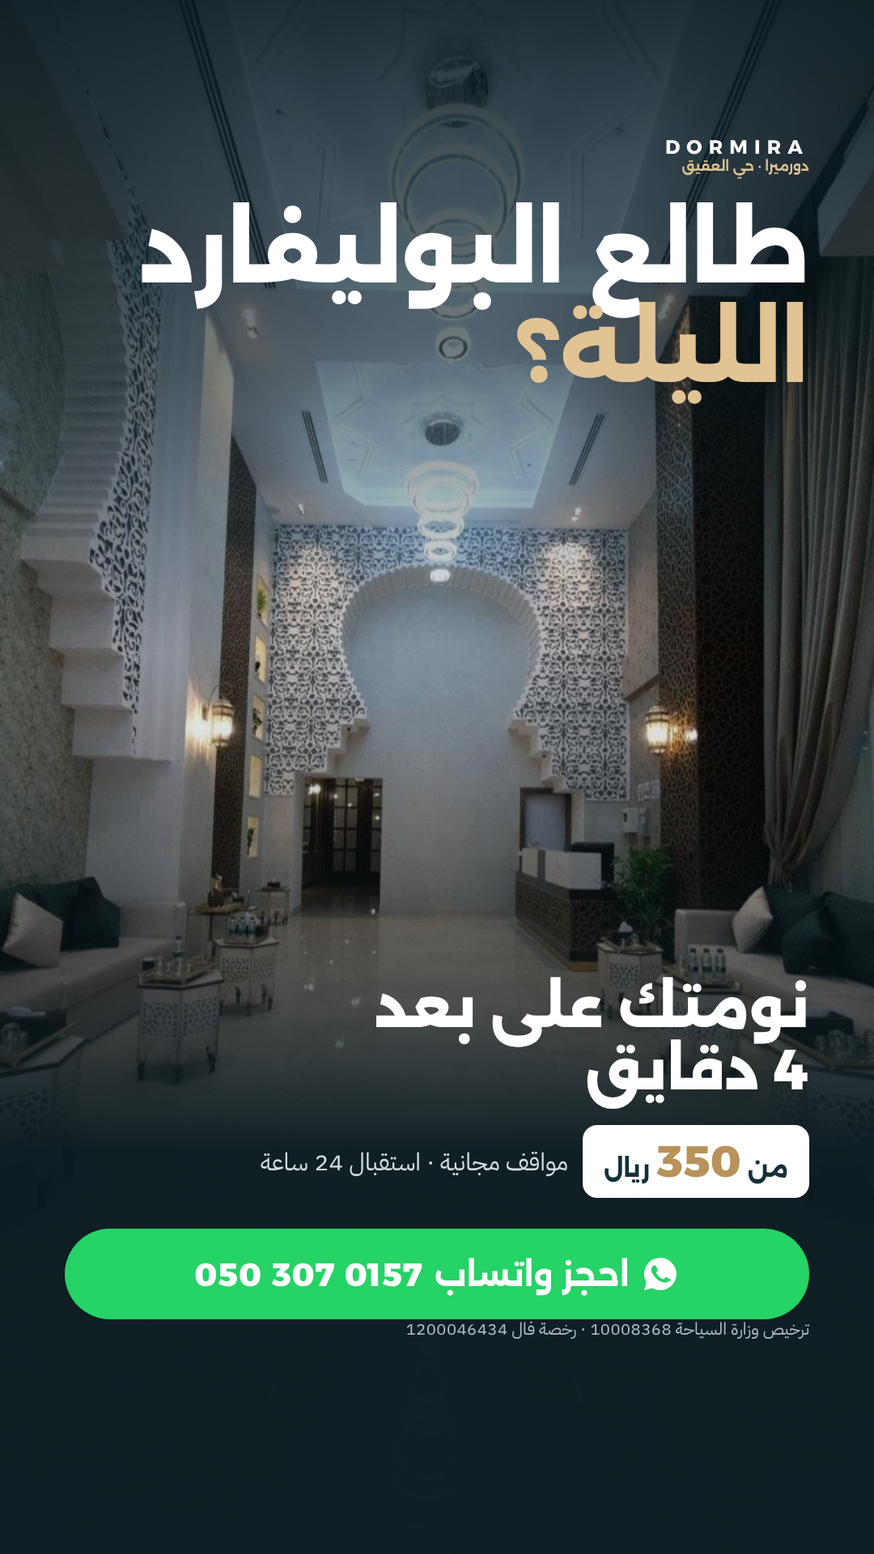
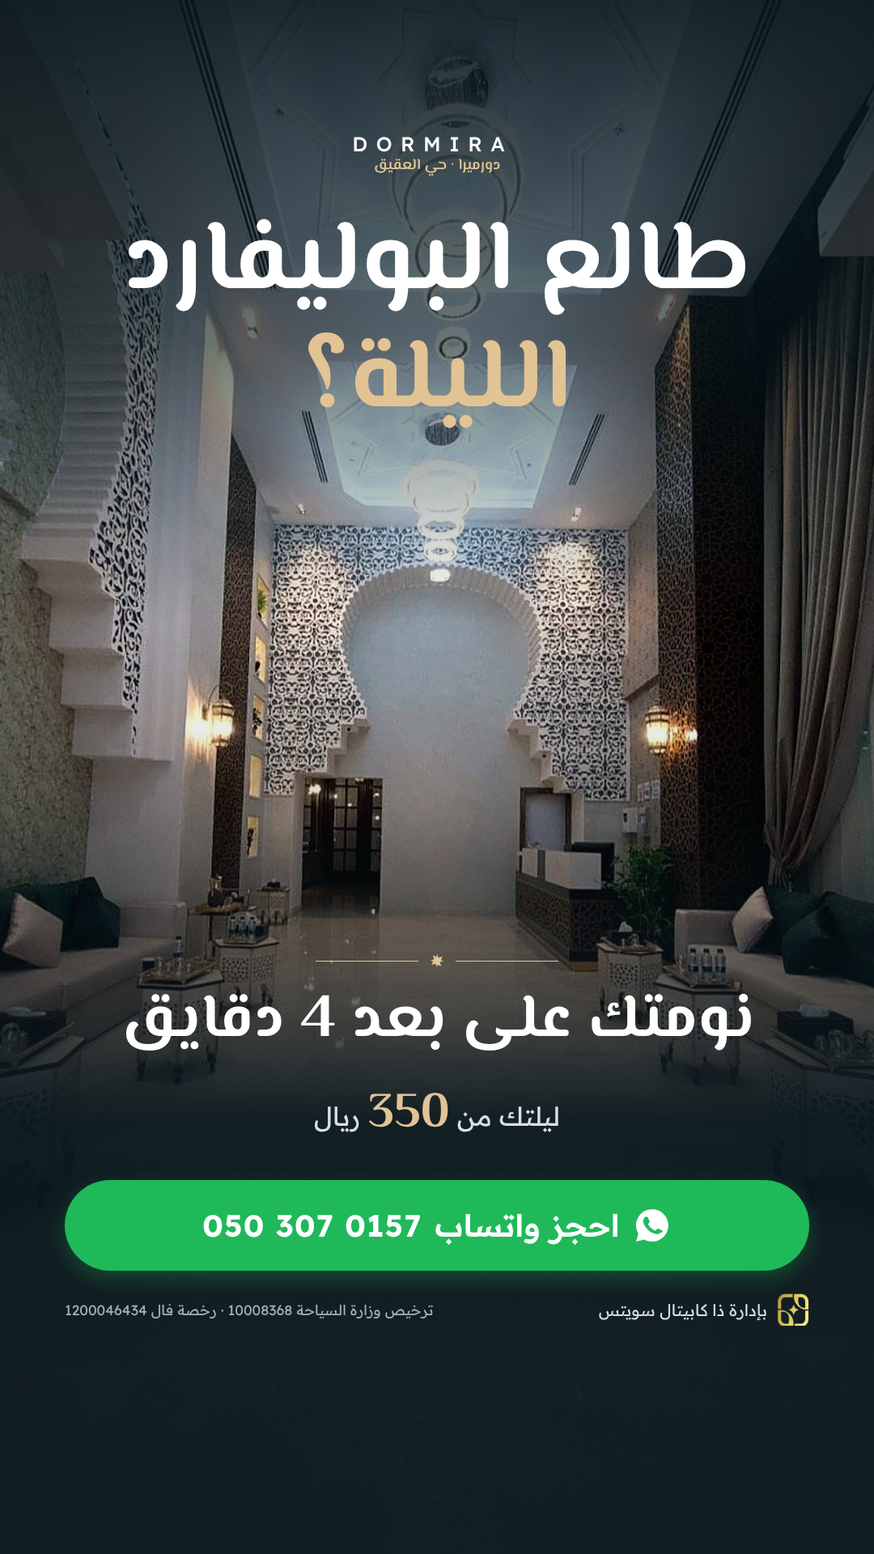
دورميرا: نسخة 3 لإعلانات اليومي (هوية القوس، خط المسيري، شعار ذا كابيتال سويتس، صور محسّنة)
Claude-Session: https://claude.ai/code/session_01DfVFKjUk58tqvKrhtTyaPE

Changed region(s): [[0.0917, 0.0938, 0.9472, 0.5312], [0.0611, 0.625, 0.9472, 0.875], [0.1222, 0.625, 0.3361, 0.6875]]

diff --git a/tools/design/render-dormira-daily.js b/tools/design/render-dormira-daily.js
@@ -1,130 +1,121 @@
-// إعلانات الإقامة اليومية لدورميرا (نسخة 2): اتجاهين لكل منصة لاختبار A/B
-// الاستخدام: node tools/design/render-dormira-daily.js out-dir
+// إعلانات الإقامة اليومية لدورميرا (نسخة 3): هوية «القوس» المستوحاة من بهو الفندق
+// اتجاهين لكل منصة لاختبار A/B، وشعار ذا كابيتال سويتس على كل تصميم
+// الاستخدام: node tools/design/render-dormira-daily.js out-dir [fonts-node_modules]
 const fs = require('fs'), path = require('path');
 const { chromium } = require('playwright');
 const ROOT = path.resolve(__dirname, '../..');
-const FONTS = path.join(__dirname, 'fonts');
 const LIC = 'ترخيص وزارة السياحة 10008368 · رخصة فال 1200046434';
 const WA = '050 307 0157';
-const C = { ivory: '#F6F2EA', navy: '#14303A', navy2: '#3D5560', brass: '#B8925A', brassL: '#E2C394', line: '#E4DCCD', wa: '#25D366' };
+const C = { ivory: '#F5F0E6', navy: '#12303A', navy2: '#3D5560', gold: '#B38B4D', goldL: '#E2C394', line: '#E2D8C6', wa: '#1FB959' };
 const d64 = (f, m) => 'data:' + m + ';base64,' + fs.readFileSync(f).toString('base64');
-const ph = n => d64(path.join(ROOT, 'assets/photos/dormira', n + '.jpg'), 'image/jpeg');
+const ph = n => d64(path.join(ROOT, 'assets/photos/dormira/enh', n + '.jpg'), 'image/jpeg');
+const LOGO = d64(path.join(ROOT, 'public/img/brand-symbol.png'), 'image/png');
+
+// الخطوط: المسيري للعناوين، ريدكس للنص والأرقام. (fontsource من مجلد node_modules)
+const NM = process.argv[3] || path.join(__dirname, 'node_modules');
 let FONT = '';
-[['Alexandria', 'alexandria', [600, 700, 800]], ['Plex', 'ibm-plex-sans-arabic', [400, 500, 600]]].forEach(([fam, dir, ws]) => ws.forEach(w => ['arabic', 'latin'].forEach(sub => {
-  const f = path.join(FONTS, dir + '-' + sub + '-' + w + '-normal.woff2');
+[['Messiri', 'el-messiri', [600, 700]], ['Readex', 'readex-pro', [400, 500, 600, 700]]].forEach(([fam, pkg, ws]) => ws.forEach(w => ['arabic', 'latin'].forEach(sub => {
+  const f = path.join(NM, '@fontsource', pkg, 'files', pkg + '-' + sub + '-' + w + '-normal.woff2');
   if (fs.existsSync(f)) FONT += '@font-face{font-family:' + fam + ';font-weight:' + w + ';src:url(' + d64(f, 'font/woff2') + ') format("woff2")}';
 })));
 
-// أيقونات خطية بسيطة
-const I = {
-  pin: c => `<svg width="34" height="34" viewBox="0 0 24 24" fill="none" stroke="${c}" stroke-width="2"><path d="M12 22s7-6.2 7-12a7 7 0 1 0-14 0c0 5.8 7 12 7 12z"/><circle cx="12" cy="10" r="2.6"/></svg>`,
-  car: c => `<svg width="34" height="34" viewBox="0 0 24 24" fill="none" stroke="${c}" stroke-width="2"><rect x="3" y="3" width="18" height="18" rx="4"/><path d="M9 17V7h4a3 3 0 0 1 0 6H9"/></svg>`,
-  wifi: c => `<svg width="34" height="34" viewBox="0 0 24 24" fill="none" stroke="${c}" stroke-width="2" stroke-linecap="round"><path d="M2 8.5a15 15 0 0 1 20 0M5 12a10 10 0 0 1 14 0M8.5 15.5a5 5 0 0 1 7 0"/><circle cx="12" cy="19" r="1" fill="${c}"/></svg>`,
-  bell: c => `<svg width="34" height="34" viewBox="0 0 24 24" fill="none" stroke="${c}" stroke-width="2"><path d="M4 18h16M6 18a6 6 0 0 1 12 0M12 9V7M9 7h6"/></svg>`,
-  wa: (c, s) => `<svg width="${s || 40}" height="${s || 40}" viewBox="0 0 24 24"><path fill="${c}" d="M12 2a10 10 0 0 0-8.6 15.1L2 22l5-1.3A10 10 0 1 0 12 2zm5.3 14.1c-.2.6-1.3 1.2-1.8 1.2-.5.1-1 .2-3.3-.7-2.8-1.1-4.5-4-4.7-4.2-.1-.2-1.1-1.5-1.1-2.9s.7-2.1 1-2.4c.3-.3.6-.3.8-.3h.6c.2 0 .4 0 .6.5l.9 2.1c.1.2.1.4 0 .5l-.3.5-.4.5c-.1.1-.3.3-.1.6.2.3.8 1.3 1.7 2.1 1.2 1 2.1 1.4 2.4 1.5.3.2.5.1.6 0l.9-1c.2-.3.4-.2.6-.1l2 1c.3.1.5.2.5.3.1.2.1.7-.1 1.3z"/></svg>`
-};
-const head = (w, h, bg, css) => `<!doctype html><html lang="ar" dir="rtl"><head><meta charset="utf-8"><style>${FONT}
+const waIcon = (s, c) => `<svg width="${s}" height="${s}" viewBox="0 0 24 24"><path fill="${c || '#fff'}" d="M12 2a10 10 0 0 0-8.6 15.1L2 22l5-1.3A10 10 0 1 0 12 2zm5.3 14.1c-.2.6-1.3 1.2-1.8 1.2-.5.1-1 .2-3.3-.7-2.8-1.1-4.5-4-4.7-4.2-.1-.2-1.1-1.5-1.1-2.9s.7-2.1 1-2.4c.3-.3.6-.3.8-.3h.6c.2 0 .4 0 .6.5l.9 2.1c.1.2.1.4 0 .5l-.3.5-.4.5c-.1.1-.3.3-.1.6.2.3.8 1.3 1.7 2.1 1.2 1 2.1 1.4 2.4 1.5.3.2.5.1.6 0l.9-1c.2-.3.4-.2.6-.1l2 1c.3.1.5.2.5.3.1.2.1.7-.1 1.3z"/></svg>`;
+// زخرفة: نجمة ثمانية صغيرة بين خطين
+const orn = (c, w) => `<div style="display:flex;align-items:center;gap:14px;width:${w || 260}px"><i style="flex:1;height:1.5px;background:${c}"></i><svg width="18" height="18" viewBox="0 0 24 24"><path fill="${c}" d="M12 1l2.6 6.4L21 4.9l-2.5 6.5L23 12l-6.4 2.6L19.1 21l-6.5-2.5L12 23l-2.6-6.4L3 19.1l2.5-6.5L1 12l6.4-2.6L4.9 3l6.5 2.5z"/></svg><i style="flex:1;height:1.5px;background:${c}"></i></div>`;
+
+const page = (w, h, bg, css, body) => `<!doctype html><html lang="ar" dir="rtl"><head><meta charset="utf-8"><style>${FONT}
 *{box-sizing:border-box;margin:0;padding:0}html,body{width:${w}px;height:${h}px;overflow:hidden}
-body{font-family:Plex,sans-serif;background:${bg};color:${C.navy};position:relative;-webkit-font-smoothing:antialiased}
-.disp{font-family:Alexandria;font-weight:800;line-height:1.1;letter-spacing:-.01em;white-space:pre-line}
-.mark{display:flex;flex-direction:column;align-items:center;gap:3px;line-height:1}
-.mark b{font-family:Alexandria;font-weight:700;font-size:24px;letter-spacing:.34em;direction:ltr;margin-left:-.34em}
-.mark span{font-family:Alexandria;font-weight:600;font-size:17px}
-.wa{display:flex;align-items:center;justify-content:center;gap:14px;background:${C.wa};color:#fff;border-radius:999px;font-family:Alexandria;font-weight:700}
-.wa .n{direction:ltr;font-weight:800;letter-spacing:.02em}
-.lic{font-size:19px}
-${css}</style></head><body>`;
-const END = '</body></html>';
+body{font-family:Readex,sans-serif;background:${bg};color:${C.navy};position:relative;-webkit-font-smoothing:antialiased}
+.ttl{font-family:Messiri;font-weight:700;line-height:1.18;white-space:pre-line}
+.dm{display:flex;flex-direction:column;align-items:center;line-height:1}
+.dm b{font-family:Readex;font-weight:500;font-size:25px;letter-spacing:.42em;direction:ltr;margin-left:-.42em}
+.dm span{font-family:Messiri;font-weight:600;font-size:19px;margin-top:5px}
+.arch{border-radius:999px 999px 26px 26px;overflow:hidden;position:relative}
+.arch img{width:100%;height:100%;object-fit:cover;display:block}
+.archline{position:absolute;border:2px solid ${C.gold};border-radius:999px 999px 30px 30px}
+.wa{display:flex;align-items:center;justify-content:center;gap:16px;background:${C.wa};color:#fff;border-radius:999px;font-weight:600;box-shadow:0 10px 24px rgba(31,185,89,.28)}
+.wa .n{direction:ltr;font-weight:700;letter-spacing:.03em}
+.ft{display:flex;align-items:center;justify-content:space-between;gap:20px}
+.tcs{display:flex;align-items:center;gap:12px;font-size:20px;white-space:nowrap}
+.tcs img{width:40px;height:40px;object-fit:contain}
+.lic{font-size:17.5px;white-space:nowrap}
+${css}</style></head><body>${body}</body></html>`;
+const foot = dark => `<div class="ft"><div class="tcs" style="color:${dark ? '#D5DEE1' : C.navy2}"><img src="${LOGO}">بإدارة ذا كابيتال سويتس</div><div class="lic" style="color:${dark ? '#9FB3BA' : C.navy2}">${LIC}</div></div>`;
+const waBtn = (h, fs) => `<div class="wa" style="height:${h}px;font-size:${fs}px">${waIcon(fs + 10)}احجز واتساب <span class="n">${WA}</span></div>`;
 
-// D1-A · فيد ميتا: صورة الغرفة + كارت السعر + المميزات + زر واتساب بالرقم
-const D1A = () => head(1080, 1350, C.navy, `
-.ph{position:absolute;inset:0 0 auto 0;height:800px}.ph img{width:100%;height:100%;object-fit:cover}
-.ph:after{content:"";position:absolute;inset:0;background:linear-gradient(180deg,rgba(10,26,32,.55),rgba(10,26,32,0) 30%,rgba(10,26,32,0) 70%,${C.navy})}
-.top{position:absolute;top:50px;right:60px;left:60px;display:flex;justify-content:space-between;align-items:center;color:#fff}
-.top .mark span{color:${C.brassL}}
-.tag{background:rgba(255,255,255,.14);backdrop-filter:blur(6px);border:1.5px solid rgba(255,255,255,.4);border-radius:999px;padding:8px 22px;font-family:Alexandria;font-weight:700;font-size:24px}
-.price{position:absolute;top:400px;left:60px;width:300px;height:300px;border-radius:50%;background:${C.brass};color:#fff;display:flex;flex-direction:column;align-items:center;justify-content:center;box-shadow:0 18px 40px rgba(0,0,0,.35);transform:rotate(-8deg)}
-.price small{font-family:Alexandria;font-weight:700;font-size:30px}.price b{font-family:Alexandria;font-weight:800;font-size:118px;line-height:1}.price span{font-family:Alexandria;font-weight:700;font-size:28px}
-.body{position:absolute;top:760px;right:60px;left:60px;color:#fff}
-h1{font-size:96px}
-.chips{display:flex;flex-wrap:wrap;gap:14px;margin-top:30px}
-.chips div{display:flex;align-items:center;gap:10px;border:1.5px solid #35525C;background:#1B3B45;border-radius:14px;padding:10px 18px;font-size:27px;font-weight:500}
-.wa{position:absolute;bottom:88px;right:60px;left:60px;height:108px;font-size:38px}
-.lic{position:absolute;bottom:34px;right:60px;color:#9FB3BA}`) + `
-<div class="ph"><img src="${ph('4f44cd67')}"></div>
-<div class="top"><div class="mark"><b>DORMIRA</b><span>دورميرا</span></div><span class="tag">حي العقيق · الرياض</span></div>
-<div class="price"><small>من</small><b>350</b><span>ريال / الليلة</span></div>
-<div class="body"><h1 class="disp">ليلتك في العقيق</h1>
-<div class="chips"><div>${I.pin(C.brassL)}4 دقايق من البوليفارد</div><div>${I.car(C.brassL)}مواقف مجانية</div><div>${I.wifi(C.brassL)}واي فاي مجاني</div><div>${I.bell(C.brassL)}استقبال 24 ساعة</div></div></div>
-<div class="wa">${I.wa('#fff', 46)}احجز واتساب <span class="n">${WA}</span></div>
-<div class="lic">${LIC}</div>` + END;
+// A · ميتا: صورة الغرفة في قوس، وختم السعر على طرف القوس
+const D1A = () => page(1080, 1350, C.ivory, `
+.dm{position:absolute;top:52px;right:0;left:0}.dm span{color:${C.gold}}
+.arch{position:absolute;top:150px;right:150px;width:780px;height:700px}
+.archline{top:132px;right:132px;width:816px;height:736px}
+.seal{position:absolute;top:640px;left:92px;width:250px;height:250px;border-radius:50%;background:${C.navy};color:#fff;display:flex;flex-direction:column;align-items:center;justify-content:center;border:6px solid ${C.ivory};box-shadow:0 0 0 2px ${C.gold}}
+.seal small{font-size:26px;color:${C.goldL}}.seal b{font-family:Messiri;font-weight:700;font-size:104px;line-height:1}.seal span{font-size:24px}
+.tx{position:absolute;top:892px;right:80px;left:80px;text-align:center}
+.tx h1{font-size:94px}
+.tx p{margin-top:12px;font-size:29px;color:${C.gold};font-weight:500}
+.btn{position:absolute;bottom:118px;right:80px;left:80px}
+.f{position:absolute;bottom:40px;right:80px;left:80px}`,
+`<div class="dm"><b>DORMIRA</b><span>دورميرا · حي العقيق</span></div>
+<div class="archline"></div><div class="arch"><img src="${ph('2ded3fad')}" style="object-position:58% 50%"></div>
+<div class="seal"><small>من</small><b>350</b><span>ريال لليلة</span></div>
+<div class="tx"><h1 class="ttl">ليلتك في العقيق</h1><p>4 دقايق من البوليفارد · مواقف مجانية · استقبال 24 ساعة</p></div>
+<div class="btn">${waBtn(100, 34)}</div><div class="f">${foot(false)}</div>`);
 
-// D1-B · فيد ميتا: فكرة «تذكرة ليلة»
-const D1B = () => head(1080, 1350, C.ivory, `
-.mark{position:absolute;top:56px;right:70px}.mark span{color:${C.brass}}
-.hd{position:absolute;top:52px;left:70px;font-family:Alexandria;font-weight:700;font-size:26px;color:${C.brass}}
-.tk{position:absolute;top:150px;right:60px;left:60px;bottom:200px;background:#fff;border-radius:34px;box-shadow:0 24px 60px rgba(20,48,58,.16);overflow:hidden}
-.tk .ph{height:520px}.tk .ph img{width:100%;height:100%;object-fit:cover}
-.cut{position:relative;height:0;border-top:3px dashed ${C.line};margin:0 40px}
-.cut:before,.cut:after{content:"";position:absolute;top:-30px;width:60px;height:60px;border-radius:50%;background:${C.ivory}}.cut:before{right:-72px}.cut:after{left:-72px}
-.in{padding:30px 54px 0}
-.lbl{font-family:Alexandria;font-weight:700;font-size:24px;color:${C.brass};letter-spacing:.02em}
-h1{font-size:84px;margin-top:8px}
-.grid{display:grid;grid-template-columns:1fr 1fr 1fr;gap:10px;margin-top:40px;border-top:2px solid ${C.line};padding-top:24px}
-.grid small{display:block;font-size:22px;color:${C.navy2}}.grid b{font-family:Alexandria;font-weight:800;font-size:38px}
-.grid b em{font-style:normal;font-size:24px;font-weight:700}
-.wa{position:absolute;bottom:88px;right:60px;left:60px;height:96px;font-size:36px}
-.lic{position:absolute;bottom:32px;right:70px;color:${C.navy2}}`) + `
-<div class="mark"><b>DORMIRA</b><span>دورميرا</span></div><div class="hd">تذكرة ليلة · الرياض</div>
-<div class="tk"><div class="ph"><img src="${ph('b4cde551')}" style="object-position:center 40%"></div><div class="cut"></div>
-<div class="in"><p class="lbl">الوجهة: حي العقيق</p><h1 class="disp">ليلة قريبة\nمن البوليفارد</h1>
-<div class="grid"><div><small>البوليفارد</small><b>4 <em>دقايق</em></b></div><div><small>المواقف</small><b>مجانية</b></div><div><small>تبدأ من</small><b>350 <em>ريال</em></b></div></div></div></div>
-<div class="wa">${I.wa('#fff', 44)}احجز واتساب <span class="n">${WA}</span></div>
-<div class="lic">${LIC}</div>` + END;
+// B · ميتا: كحلي، بهو الفندق في قوس طويل، والرقم «4» بطل التصميم
+const D1B = () => page(1080, 1350, C.navy, `
+.arch{position:absolute;top:70px;left:70px;width:440px;height:900px}
+.archline{top:52px;left:52px;width:476px;height:936px}
+.r{position:absolute;top:90px;right:70px;width:470px;color:#fff}
+.dm{align-items:flex-start}.dm b{margin-left:0}.dm span{color:${C.goldL}}
+.big{display:flex;align-items:baseline;gap:14px;margin-top:150px}
+.big b{font-family:Messiri;font-weight:700;font-size:300px;line-height:.8;color:${C.goldL}}
+.big span{font-family:Messiri;font-weight:700;font-size:58px}
+.r h1{font-size:62px;margin-top:26px}
+.pr{display:inline-flex;align-items:baseline;gap:10px;margin-top:30px;border:2px solid ${C.gold};border-radius:16px;padding:12px 22px;font-size:28px}
+.pr b{font-family:Messiri;font-size:54px;color:${C.goldL}}
+.ft2{margin-top:28px;font-size:25px;color:#C6D3D7;line-height:1.7}
+.btn{position:absolute;bottom:118px;right:70px;left:70px}
+.f{position:absolute;bottom:40px;right:70px;left:70px}`,
+`<div class="archline"></div><div class="arch"><img src="${ph('bc9f41ae')}" style="object-position:50% 40%"></div>
+<div class="r"><div class="dm"><b>DORMIRA</b><span>دورميرا · حي العقيق</span></div>
+<div class="big"><b>4</b><span>دقايق</span></div><h1 class="ttl">من بوليفارد الرياض</h1>
+<div class="pr">ليلتك من <b>350</b> ريال</div><p class="ft2">مواقف مجانية · واي فاي مجاني<br>استقبال على مدار الساعة</p></div>
+<div class="btn">${waBtn(100, 34)}</div><div class="f">${foot(true)}</div>`);
 
-// D2-A · ستوري سناب: سؤال يوقف السحب
-const D2A = () => head(1080, 1920, C.navy, `
-.bg{position:absolute;inset:0}.bg img{width:100%;height:100%;object-fit:cover;object-position:center 35%}
-.sh{position:absolute;inset:0;background:linear-gradient(180deg,rgba(10,26,32,.9) 0%,rgba(10,26,32,.55) 24%,rgba(10,26,32,.05) 42%,rgba(10,26,32,.25) 55%,rgba(10,26,32,.96) 74%)}
-.top{position:absolute;top:170px;right:80px;left:80px;color:#fff}
-.top .mark{align-items:flex-start;margin-bottom:34px}.top .mark span{color:${C.brassL}}
-.q{font-size:112px;color:#fff}
-.q em{font-style:normal;color:${C.brassL}}
-.bot{position:absolute;bottom:290px;right:80px;left:80px;color:#fff}
-.a{font-size:70px}
-.row{display:flex;align-items:center;gap:18px;margin-top:30px}
-.pr{background:#fff;color:${C.navy};border-radius:18px;padding:12px 26px;font-family:Alexandria;font-weight:700;font-size:30px}.pr b{font-size:54px;color:${C.brass}}
-.pk{font-size:30px;color:#D3DEE2}
-.wa{margin-top:38px;height:112px;font-size:40px}
-.lic{position:absolute;bottom:262px;right:80px;color:#AFC0C7;font-size:21px}`) + `
-<div class="bg"><img src="${ph('bc9f41ae')}"></div><div class="sh"></div>
-<div class="top"><div class="mark"><b>DORMIRA</b><span>دورميرا · حي العقيق</span></div><h1 class="disp q">طالع البوليفارد\n<em>الليلة؟</em></h1></div>
-<div class="bot"><p class="disp a">نومتك على بعد\n4 دقايق</p>
-<div class="row"><span class="pr">من <b>350</b> ريال</span><span class="pk">مواقف مجانية · استقبال 24 ساعة</span></div>
-<div class="wa">${I.wa('#fff', 48)}احجز واتساب <span class="n">${WA}</span></div></div>
-<div class="lic">${LIC}</div>` + END;
+// A · سناب: البهو كامل وسؤال يوقف السحب
+const D2A = () => page(1080, 1920, C.navy, `
+.bg{position:absolute;inset:0}.bg img{width:100%;height:100%;object-fit:cover;object-position:50% 38%}
+.sh{position:absolute;inset:0;background:linear-gradient(180deg,rgba(9,24,30,.92) 0%,rgba(9,24,30,.6) 22%,rgba(9,24,30,0) 40%,rgba(9,24,30,.15) 52%,rgba(9,24,30,.95) 72%)}
+.top{position:absolute;top:165px;right:80px;left:80px;color:#fff;text-align:center;display:flex;flex-direction:column;align-items:center}
+.top .dm span{color:${C.goldL}}
+.q{font-size:124px;margin-top:40px;color:#fff}.q em{font-style:normal;color:${C.goldL}}
+.bot{position:absolute;bottom:282px;right:80px;left:80px;color:#fff;display:flex;flex-direction:column;align-items:center;text-align:center}
+.a{font-size:76px;margin-top:22px}
+.pr{margin-top:22px;font-size:32px;color:#D7E1E4}.pr b{font-family:Messiri;font-size:60px;color:${C.goldL}}
+.wa{margin-top:34px;width:100%}
+.f{margin-top:28px;width:100%}`,
+`<div class="bg"><img src="${ph('bc9f41ae')}"></div><div class="sh"></div>
+<div class="top"><div class="dm"><b>DORMIRA</b><span>دورميرا · حي العقيق</span></div><h1 class="ttl q">طالع البوليفارد\n<em>الليلة؟</em></h1></div>
+<div class="bot">${orn(C.goldL, 300)}<p class="ttl a">نومتك على بعد 4 دقايق</p><p class="pr">ليلتك من <b>350</b> ريال</p>${waBtn(112, 38)}<div class="f">${foot(true)}</div></div>`);
 
-// D2-B · ستوري سناب: السعر أولاً
-const D2B = () => head(1080, 1920, C.ivory, `
-.top{position:absolute;top:170px;right:80px;left:80px;display:flex;justify-content:space-between;align-items:center}
-.top .mark span{color:${C.brass}}.tag{font-family:Alexandria;font-weight:700;font-size:26px;color:${C.brass};border:2px solid ${C.brass};border-radius:999px;padding:6px 20px}
-.big{position:absolute;top:290px;right:80px;left:80px;display:flex;align-items:flex-end;gap:20px}
-.big b{font-family:Alexandria;font-weight:800;font-size:250px;line-height:.85;color:${C.navy}}
-.big div{font-family:Alexandria;font-weight:700;font-size:44px;line-height:1.2;color:${C.brass};padding-bottom:18px}
-.fr{position:absolute;top:620px;right:80px;left:80px;height:600px;border-radius:34px;overflow:hidden;box-shadow:0 24px 50px rgba(20,48,58,.2)}
-.fr img{width:100%;height:100%;object-fit:cover}
-.b{position:absolute;top:1255px;right:80px;left:80px}
-h1{font-size:80px}
-ul{list-style:none;display:flex;gap:28px;margin-top:22px;font-size:30px;color:${C.navy2}}
-li{display:flex;align-items:center;gap:8px}li:before{content:"";width:14px;height:14px;border-radius:50%;background:${C.brass}}
-.wa{position:absolute;bottom:330px;right:80px;left:80px;height:112px;font-size:40px}
-.lic{position:absolute;bottom:270px;right:80px;color:${C.navy2};font-size:21px}`) + `
-<div class="top"><div class="mark"><b>DORMIRA</b><span>دورميرا</span></div><span class="tag">ليلة في الرياض</span></div>
-<div class="big"><b>350</b><div>ريال\nلليلة</div></div>
-<div class="fr"><img src="${ph('772c6e45')}"></div>
-<div class="b"><h1 class="disp">غرفتك في العقيق</h1><ul><li>4 دقايق من البوليفارد</li><li>مواقف مجانية</li></ul></div>
-<div class="wa">${I.wa('#fff', 48)}احجز واتساب <span class="n">${WA}</span></div>
-<div class="lic">${LIC}</div>` + END;
+// B · سناب: السعر بطل التصميم، والغرفة في قوس
+const D2B = () => page(1080, 1920, C.ivory, `
+.dm{position:absolute;top:165px;right:0;left:0}.dm span{color:${C.gold}}
+.price{position:absolute;top:280px;right:0;left:0;display:flex;justify-content:center;align-items:baseline;gap:18px}
+.price b{font-family:Messiri;font-weight:700;font-size:240px;line-height:1;color:${C.navy}}
+.price span{font-family:Messiri;font-weight:700;font-size:52px;color:${C.gold}}
+.arch{position:absolute;top:580px;right:150px;width:780px;height:620px}
+.archline{top:562px;right:132px;width:816px;height:656px}
+.tx{position:absolute;top:1236px;right:80px;left:80px;text-align:center;display:flex;flex-direction:column;align-items:center}
+.tx h1{font-size:84px}
+.tx p{margin-top:8px;font-size:30px;color:${C.navy2}}
+.btn{position:absolute;bottom:352px;right:80px;left:80px}
+.f{position:absolute;bottom:262px;right:80px;left:80px}`,
+`<div class="dm"><b>DORMIRA</b><span>دورميرا · حي العقيق</span></div>
+<div class="price"><b>350</b><span>ريال لليلة</span></div>
+<div class="archline"></div><div class="arch"><img src="${ph('e8d04bb8')}" style="object-position:62% 50%"></div>
+<div class="tx"><h1 class="ttl">غرفتك في العقيق</h1><p>4 دقايق من البوليفارد · مواقف مجانية</p></div>
+<div class="btn">${waBtn(108, 36)}</div><div class="f">${foot(false)}</div>`);
 
 (async () => {
   const out = process.argv[2]; fs.mkdirSync(out, { recursive: true });

diff --git a/tools/design/api.js b/tools/design/api.js
@@ -29,13 +29,13 @@ async function j(r) { const t = await r.text(); let d; try { d = JSON.parse(t); 
     const have = (await j(await fetch(BASE + '?q=ads', { headers: H }))).ads;
     for (const ad of m.ads) {
       const dup = have.some(x => x.by === 'claude' && x.title === ad.title && x.campaign === m.campaign && x.platform === ad.platform);
-      if (dup) { console.error('موجود قبل كده: ' + ad.title); continue; }
+      if (dup && !ad.key) { console.error('موجود قبل كده: ' + ad.title); continue; }
       const up = [];
       for (const f of ad.files) {
         const fp = path.join(dir, f), b64 = fs.readFileSync(fp).toString('base64');
         up.push(await j(await fetch(BASE, { method: 'POST', headers: H, body: JSON.stringify({ action: 'upload', post: 'ads-' + (m.slug || 'batch'), name: path.basename(f), type: 'image/png', b64 }) })));
       }
-      const r = await j(await fetch(BASE, { method: 'POST', headers: H, body: JSON.stringify({ action: 'ad-version', key: 'new', title: ad.title, platform: ad.platform, campaign: m.campaign, text: ad.text, note: ad.note || '', files: up }) }));
+      const r = await j(await fetch(BASE, { method: 'POST', headers: H, body: JSON.stringify({ action: 'ad-version', key: ad.key || 'new', title: ad.title, platform: ad.platform, campaign: m.campaign, text: ad.text, note: ad.note || '', files: up }) }));
       console.log('اترفع: ' + ad.title + ' (' + up.length + ' ملف) → ' + r.key);
     }
     return;
